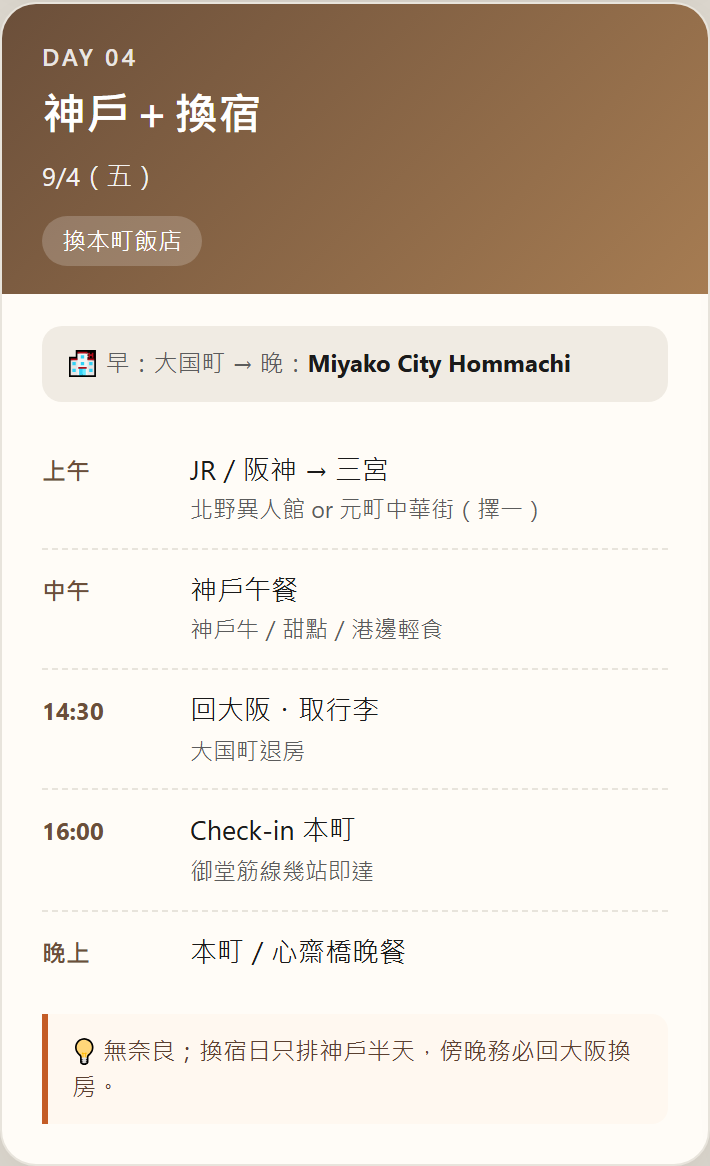
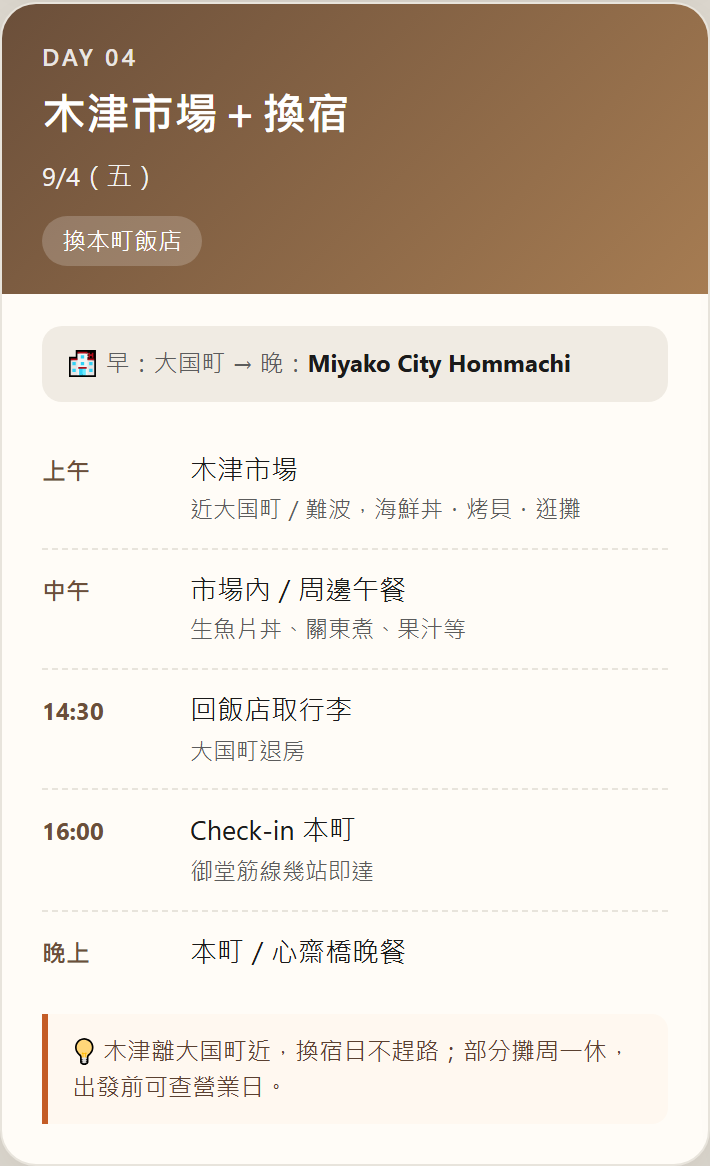
test0711: Day4 Kobe -> Kizu Market + hotel change

diff --git a/test0711/index.html b/test0711/index.html
@@ -296,7 +296,7 @@
     <article class="card d4">
       <div class="card-head">
         <div class="day-num">DAY 04</div>
-        <h2>神戶＋換宿</h2>
+        <h2>木津市場＋換宿</h2>
         <div class="date">9/4（五）</div>
         <span class="badge">換本町飯店</span>
       </div>
@@ -305,15 +305,15 @@
         <div class="timeline">
           <div class="item">
             <div class="time">上午</div>
-            <div class="what">JR／阪神 → 三宮<small>北野異人館 or 元町中華街（擇一）</small></div>
+            <div class="what">木津市場<small>近大国町／難波，海鮮丼・烤貝・逛攤</small></div>
           </div>
           <div class="item">
             <div class="time">中午</div>
-            <div class="what">神戶午餐<small>神戶牛／甜點／港邊輕食</small></div>
+            <div class="what">市場內／周邊午餐<small>生魚片丼、關東煮、果汁等</small></div>
           </div>
           <div class="item">
             <div class="time">14:30</div>
-            <div class="what">回大阪・取行李<small>大国町退房</small></div>
+            <div class="what">回飯店取行李<small>大国町退房</small></div>
           </div>
           <div class="item">
             <div class="time">16:00</div>
@@ -324,7 +324,7 @@
             <div class="what">本町／心齋橋晚餐</div>
           </div>
         </div>
-        <div class="tip">💡 無奈良；換宿日只排神戶半天，傍晚務必回大阪換房。</div>
+        <div class="tip">💡 木津離大国町近，換宿日不趕路；部分攤周一休，出發前可查營業日。</div>
       </div>
     </article>
 
@@ -356,7 +356,7 @@
             <div class="what">本町／心齋橋晚餐<small>勿太晚，隔天要離境</small></div>
           </div>
         </div>
-        <div class="tip">💡 神戶已在 Day4；今日專心大阪城＋梅田伴手禮。</div>
+        <div class="tip">💡 Day4 已去木津；今日專心大阪城＋梅田伴手禮。</div>
       </div>
     </article>
 

diff --git a/test0711/README.md b/test0711/README.md
@@ -5,6 +5,6 @@
 - 線上預覽：https://aijackliu.github.io/cbot/test0711/
 - 9/1 桃園→關西 JX822 · 9/6 關西→桃園 GK055
 - 住宿：ESLEAD Namba Daikokucho → Miyako City Osaka Hommachi
-- Day4：神戶半天＋換宿本町
+- Day4：木津市場＋換宿本町
 
 靜態 HTML，無需後端。